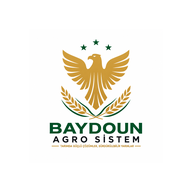
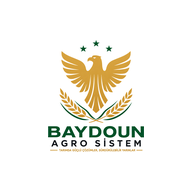
Add files via upload

Changed region(s): [[0.25, 0.1875, 0.75, 0.8125]]

diff --git a/CHANGELOG.md b/CHANGELOG.md
@@ -1,5 +1,6 @@
 ## V20.26 — Roomier splash / launcher icon
 - Regenerated the maskable icons (192/512) with the logo at ~31% of the canvas on pure white, so Android's rounded splash/launcher mask no longer crops the wordmark or tagline and the logo sits comfortably in the centre.
+- Revision b: all icons (any/maskable/apple-touch) enlarged to a medium size (46–50% of canvas) so the logo is readable on the launcher and startup screen without being cropped. Manifest icon URLs carry ?v=20.26b.
 - Updated APP_VERSION and service-worker cache to 20.26. Data structures unchanged.
 
 ## V20.25 — Logo fix for local/Android opening
